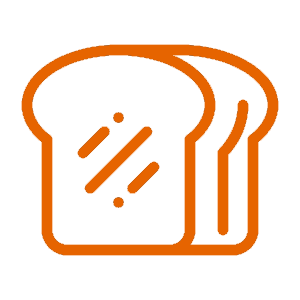
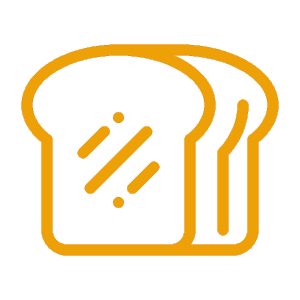
preliminary recipe addition script added

diff --git a/index.css b/index.css
@@ -4,6 +4,7 @@ body {
   overflow-x: hidden;
 
   --main-color: #F9B630;
+  --main-dark: #de9608;
   --dark-color: #604D42;
 }
 
@@ -215,18 +216,26 @@ p {
   --icon: url(assets/default.png);
 }
 
-.food-item:hover, .recipe-item:hover {
+.food-item:hover {
   background-color: #f0f0f0;
   border: 1px solid #999999;
+}
+
+.recipe-item:hover {
+  background-color: #f9f9f9;
+  border: 1px solid #d9d9d9;
 }
 
 .food-item, .recipe-item {
   display: flex;
   padding: 1vh 1vw;
   border-radius: 10px;
+  transition: border 0.5s ease, background-color 0.5s ease;
+}
+
+.food-item {
   background-color: #f9f9f9;
   border: 1px solid #d9d9d9;
-  transition: border 0.5s ease, background-color 0.5s ease;
 }
 
 .food-name {
@@ -263,12 +272,6 @@ p {
   flex-direction: column;
   justify-content: center;
   border-left: 1px solid lightgray;
-  margin-left: 2em;
-  width: 100%;
-  width: calc(100% - 2em);
-}
-
-.food-duration-container.double-len {
   margin-left: 4em;
   width: calc(100% - 4em);
 }
@@ -306,11 +309,11 @@ p {
   box-sizing: border-box;
 }
 .food-duration.on_open_pantry {
-  background-color: rgba(var(--rgb), 0.25);
+  background-color: rgba(var(--rgb), 0.35);
   --icon: url(assets/pantry_open.png);
 }
 .food-duration.on_open_fridge {
-  background-color: rgba(var(--rgb), 0.25);
+  background-color: rgba(var(--rgb), 0.35);
   --icon: url(assets/fridge_open.png);
 }
 
@@ -343,8 +346,8 @@ p {
   --icon: url(assets/meat.png);
 }
 .grains {
-  --color: #E66400;
-  --rgb: 230, 100, 0;
+  --color: #eda107;
+  --rgb: 237, 161, 7;
   --icon: url(assets/grain.png)
 }
 .dairy {
@@ -385,6 +388,14 @@ p {
 .recipe-item {
   flex-direction: column;
   align-items: flex-start;
+  border: 1px solid #00000000;
+  color: var(--dark-color);
+  padding-bottom: 2vh;
+}
+
+.recipe-name {
+  color: var(--main-color);
+  margin: 0 1em 0 0;
 }
 
 .recipe-item:hover {
@@ -396,11 +407,14 @@ p {
 }
 
 a {
-  transition: transform 0.5s ease;
+  transition: color 0.2s ease;
+  text-decoration: none;
+  color: var(--main-dark);
 }
 
 a:hover {
-  transform: scale(1.1);
+  color: var(--main-color);
+  text-decoration: underline;
 }
 
 .hidden {
@@ -446,6 +460,15 @@ a:hover {
 }
 
 @media screen and (max-width: 768px) {
+  .food-duration-container {
+    margin-left: 2em;
+    width: calc(100% - 2em);
+  }
+  
+  .food-duration-container.double-len {
+    margin-left: 4em;
+    width: calc(100% - 4em);
+  }
 
   #scan-btn {
     font-size: 35px;

diff --git a/src/index.ts b/src/index.ts
@@ -42,8 +42,35 @@ interface RecipeItem {
   url: string, // link to the recipe
 }
 
-function displayRecipes(items: RecipeItem[]) {
-  console.log("Not Yet Implemented!");
+function displayRecipes(items: RecipeItem[], message: string = "Your Recipes") {
+  const container = document.getElementById('recipes');
+  const template = document.getElementById('template');
+
+  // clear the container except the template child
+  container.innerHTML = "";
+  container.appendChild(template);
+
+  for (let i = 0; i < items.length; i++) {
+    const item = items[i];
+    // @ts-ignore
+    const node: HTMLElement = template.cloneNode(true);
+
+    node.classList.remove('hidden');
+    node.id = "";
+    node.querySelector('h2.recipe-name').textContent = item.title;
+    node.querySelector('span').textContent = nbsp(" (") + item.time + ")";
+    // @ts-ignore stupid whore typescript I'm literally querying for an <a> tag...
+    node.querySelector('a.recipe-url').href = item.url;
+    // node.querySelector('p').textContent = item.utilized;
+
+    // insert after template
+    container.insertBefore(node, template);
+  }
+
+  const text = document.createElement('h2');
+  text.innerText = message;
+  text.style.textAlign = "center";
+  container.insertBefore(text, container.firstChild);
 }
 
 interface FoodItem {
@@ -70,7 +97,6 @@ interface FoodItem {
 function displayItems(items: FoodItem[], message: string = "Your Data") {
   const container = document.getElementById('visualizer');
   const template = document.getElementById('template');
-
 
   // clear the container except the template child
   container.innerHTML = "";

diff --git a/index.html b/index.html
@@ -97,12 +97,16 @@
     <h2 style="text-align: center;">Your Recipes</h2>
     <div class="recipe-item hidden_" id="template">
       <div class="recipe-title-line">
-        <h2 style="margin-right: 1em;">Recipe Title Here</h2>
+        <h2 class="recipe-name">Long Long Recipe Title Here</h2>
         <img class="icon" src="assets/grain.png" />
         <img class="icon" src="assets/vegetable.png" />
         <img class="icon" src="assets/meat.png" />
+        <img class="icon" src="assets/fruit.png" />
+        <img class="icon" src="assets/dairy.png" />
+        <img class="icon" src="assets/default.png" />
       </div>
-      <a class="recipe-url" href="https://www.allrecipes.com/recipe/76296/meat-pie/">Let's Cook!</a>
+      <p>Milk, Eggs, Butter, Carrots, Potatoes...</p>
+      <span><a class="recipe-url" href="https://www.allrecipes.com/recipe/76296/meat-pie/">Let's Cook!</a>&nbsp;(3hrs)</span>
     </div>
   </section>
 
